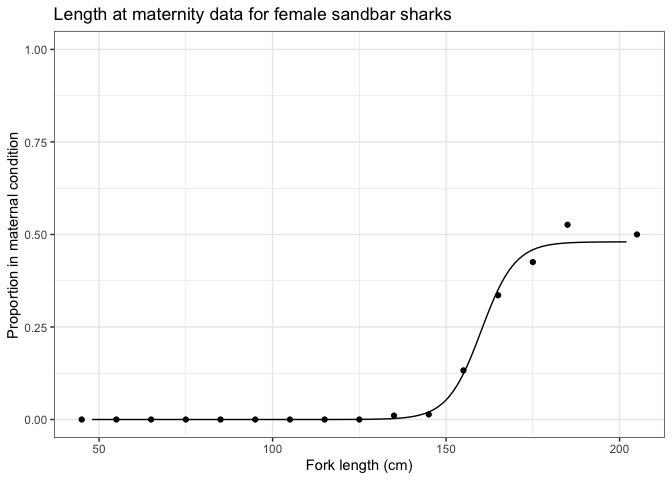
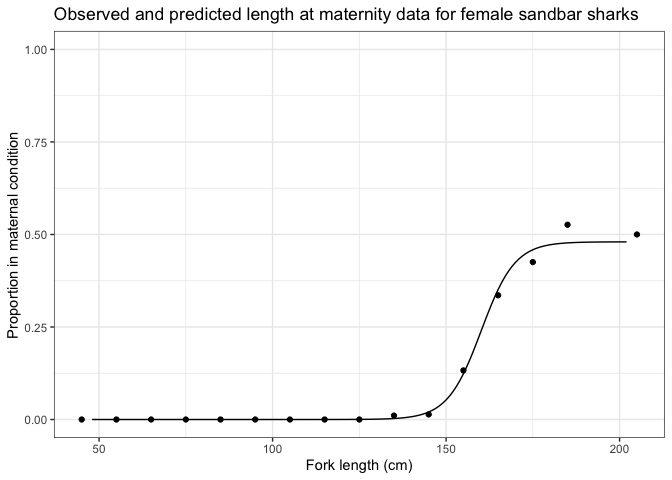
readme

Changed region(s): [[0.0625, 0.0, 0.9375, 0.0625]]

diff --git a/README.md b/README.md
@@ -21,6 +21,7 @@ Repository structure:
     ├── README_files
     │   └── figure-commonmark
     │       ├── unnamed-chunk-1-1.png
+    │       ├── unnamed-chunk-12-1.png
     │       ├── unnamed-chunk-2-1.png
     │       ├── unnamed-chunk-3-1.png
     │       ├── unnamed-chunk-4-1.png
@@ -284,7 +285,7 @@ ggplot()  +
   geom_point(data = data_binned, aes(x = x_bin, y = p), col = "black") + 
   geom_line(data = newdata, aes(x= len, y = matern)) + 
   ylim(0, 1) +
-  labs(x = "Fork length (cm)", y = "Proportion in maternal condition", title = "Length at maternity data for female sandbar sharks") 
+  labs(x = "Fork length (cm)", y = "Proportion in maternal condition", title = "Observed and predicted length at maternity data for female sandbar sharks") 
 ```
 
 ![](README_files/figure-commonmark/unnamed-chunk-12-1.png)
